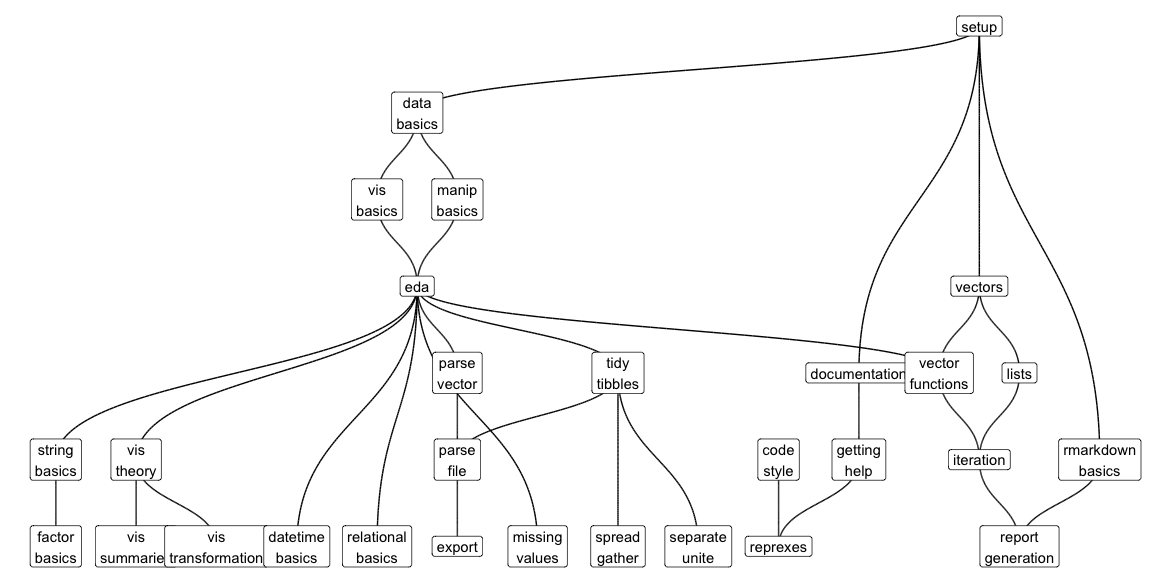
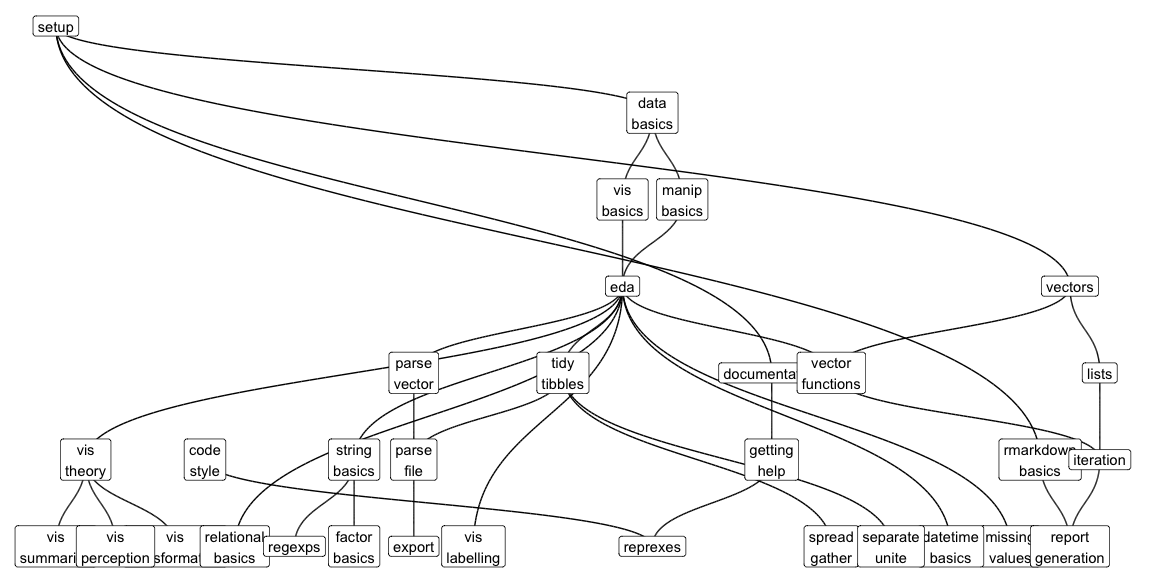
Draft out week 4

diff --git a/storyboard.md b/storyboard.md
@@ -11,7 +11,7 @@
 |cheatsheets-rmarkdown-reference |R Markdown Reference Guide                        |[rmarkdown-basics](https://dcl-2017-01.github.io/curriculum/rmarkdown-basics.html) |                                                                                       |                                                                                     |                                                                               |                                                                                                                               |       |       |       |       |       |
 |ggplot2-1                       |Introduction                                      |                                                                                   |                                                                                       |                                                                                     |                                                                               |                                                                                                                               |       |       |       |       |       |
 |ggplot2-2                       |Getting started with ggplot2                      |                                                                                   |                                                                                       |                                                                                     |                                                                               |                                                                                                                               |       |       |       |       |       |
-|ggplot2-3                       |Toolbox                                           |[vis-basics](https://dcl-2017-01.github.io/curriculum/vis-basics.html)             |[vis-summaries](https://dcl-2017-01.github.io/curriculum/vis-summaries.html)           |                                                                                     |                                                                               |                                                                                                                               |       |       |       |       |       |
+|ggplot2-3                       |Toolbox                                           |[vis-basics](https://dcl-2017-01.github.io/curriculum/vis-basics.html)             |[vis-summaries](https://dcl-2017-01.github.io/curriculum/vis-summaries.html)           |                                                                                     |[vis-labelling](https://dcl-2017-01.github.io/curriculum/vis-labelling.html)   |                                                                                                                               |       |       |       |       |       |
 |ggplot2-4                       |Mastering the grammar                             |                                                                                   |[vis-theory](https://dcl-2017-01.github.io/curriculum/vis-theory.html)                 |                                                                                     |                                                                               |                                                                                                                               |       |       |       |       |       |
 |ggplot2-5                       |Build a plot layer by layer                       |                                                                                   |[vis-theory](https://dcl-2017-01.github.io/curriculum/vis-theory.html)                 |                                                                                     |                                                                               |                                                                                                                               |       |       |       |       |       |
 |ggplot2-6                       |Scales, axes and legends                          |                                                                                   |[vis-transformation](https://dcl-2017-01.github.io/curriculum/vis-transformation.html) |[datetime-basics](https://dcl-2017-01.github.io/curriculum/datetime-basics.html)     |                                                                               |                                                                                                                               |       |       |       |       |       |
@@ -86,7 +86,7 @@
 |r4ds-11.2                       |Getting started                                   |                                                                                   |                                                                                       |                                                                                     |[parse-file](https://dcl-2017-01.github.io/curriculum/parse-file.html)         |                                                                                                                               |       |       |       |       |       |
 |r4ds-11.3                       |Parsing a vector                                  |                                                                                   |                                                                                       |                                                                                     |[parse-vector](https://dcl-2017-01.github.io/curriculum/parse-vector.html)     |                                                                                                                               |       |       |       |       |       |
 |r4ds-11.4                       |Parsing a file                                    |                                                                                   |                                                                                       |                                                                                     |[parse-file](https://dcl-2017-01.github.io/curriculum/parse-file.html)         |                                                                                                                               |       |       |       |       |       |
-|r4ds-11.5                       |Writing to a file                                 |                                                                                   |                                                                                       |                                                                                     |[export](https://dcl-2017-01.github.io/curriculum/export.html)                 |                                                                                                                               |       |       |       |       |       |
+|r4ds-11.5                       |Writing to a file                                 |                                                                                   |                                                                                       |                                                                                     |                                                                               |[export](https://dcl-2017-01.github.io/curriculum/export.html)                                                                 |       |       |       |       |       |
 |r4ds-11.6                       |Other types of data                               |                                                                                   |                                                                                       |                                                                                     |                                                                               |                                                                                                                               |       |       |       |       |       |
 |r4ds-12                         |Tidy data                                         |                                                                                   |                                                                                       |                                                                                     |                                                                               |                                                                                                                               |       |       |       |       |       |
 |r4ds-12.1                       |Introduction                                      |                                                                                   |                                                                                       |                                                                                     |                                                                               |                                                                                                                               |       |       |       |       |       |
@@ -107,8 +107,8 @@
 |r4ds-14                         |Strings                                           |                                                                                   |                                                                                       |                                                                                     |                                                                               |                                                                                                                               |       |       |       |       |       |
 |r4ds-14.1                       |Introduction                                      |                                                                                   |                                                                                       |[string-basics](https://dcl-2017-01.github.io/curriculum/string-basics.html)         |                                                                               |                                                                                                                               |       |       |       |       |       |
 |r4ds-14.2                       |String basics                                     |                                                                                   |                                                                                       |[string-basics](https://dcl-2017-01.github.io/curriculum/string-basics.html)         |                                                                               |                                                                                                                               |       |       |       |       |       |
-|r4ds-14.3                       |Matching patterns with regular expressions        |                                                                                   |                                                                                       |                                                                                     |                                                                               |                                                                                                                               |       |       |       |       |       |
-|r4ds-14.4                       |Tools                                             |                                                                                   |                                                                                       |                                                                                     |                                                                               |                                                                                                                               |       |       |       |       |       |
+|r4ds-14.3                       |Matching patterns with regular expressions        |                                                                                   |                                                                                       |                                                                                     |[regexps](https://dcl-2017-01.github.io/curriculum/regexps.html)               |                                                                                                                               |       |       |       |       |       |
+|r4ds-14.4                       |Tools                                             |                                                                                   |                                                                                       |                                                                                     |[regexps](https://dcl-2017-01.github.io/curriculum/regexps.html)               |                                                                                                                               |       |       |       |       |       |
 |r4ds-14.5                       |Other types of pattern                            |                                                                                   |                                                                                       |                                                                                     |                                                                               |                                                                                                                               |       |       |       |       |       |
 |r4ds-14.6                       |Other uses of regular expressions                 |                                                                                   |                                                                                       |                                                                                     |                                                                               |                                                                                                                               |       |       |       |       |       |
 |r4ds-14.7                       |stringi                                           |                                                                                   |                                                                                       |                                                                                     |                                                                               |                                                                                                                               |       |       |       |       |       |
@@ -189,8 +189,8 @@
 |r4ds-27.7                       |Learning more                                     |                                                                                   |                                                                                       |                                                                                     |                                                                               |                                                                                                                               |       |       |       |       |       |
 |r4ds-28                         |Graphics for communication                        |                                                                                   |                                                                                       |                                                                                     |                                                                               |                                                                                                                               |       |       |       |       |       |
 |r4ds-28.1                       |Introduction                                      |                                                                                   |                                                                                       |                                                                                     |                                                                               |                                                                                                                               |       |       |       |       |       |
-|r4ds-28.2                       |Label                                             |                                                                                   |                                                                                       |                                                                                     |                                                                               |                                                                                                                               |       |       |       |       |       |
-|r4ds-28.3                       |Annotations                                       |                                                                                   |                                                                                       |                                                                                     |                                                                               |                                                                                                                               |       |       |       |       |       |
+|r4ds-28.2                       |Label                                             |                                                                                   |                                                                                       |                                                                                     |[vis-labelling](https://dcl-2017-01.github.io/curriculum/vis-labelling.html)   |                                                                                                                               |       |       |       |       |       |
+|r4ds-28.3                       |Annotations                                       |                                                                                   |                                                                                       |                                                                                     |[vis-labelling](https://dcl-2017-01.github.io/curriculum/vis-labelling.html)   |                                                                                                                               |       |       |       |       |       |
 |r4ds-28.4                       |Scales                                            |                                                                                   |                                                                                       |                                                                                     |                                                                               |                                                                                                                               |       |       |       |       |       |
 |r4ds-28.5                       |Zooming                                           |                                                                                   |                                                                                       |                                                                                     |                                                                               |                                                                                                                               |       |       |       |       |       |
 |r4ds-28.6                       |Themes                                            |                                                                                   |                                                                                       |                                                                                     |                                                                               |                                                                                                                               |       |       |       |       |       |

diff --git a/docs/README.md b/docs/README.md
@@ -65,26 +65,31 @@ joins, which allow you to combine multiple datasets.
 1. [Essentials of relational data](relational-basics.md)
 1. [Spreading and gathering](spread-gather.md)
 
-
-## Care and feeding of tibbles
-
-So far you've used tidy data that we've provided you. This will __never__
-happen in real life, so this week you'll learn how to load data from a flat
-files on disk, and get your data into a tidy form. We'll also touch on some
-important theory about R's data structures.
-
-### Units
-
-1. [Parsing vectors](parse-vector.md)
-1. [Parsing files](parse-file.md)
-1. [Separate and unite](separate-unite.md)
-1. [Exporting data](export.md)
-
 ### Supplemental readings
 
 * [Tidying computational biology models with biobroom](supplements.html#biobroom)
 * [Non-tidy data](supplements.html#leek-non-tidy)
 * [Tidy Data](supplements.html#wickham-tidy-data)
+
+
+## Deepening your data skills
+
+So far you've used tidy data that we've provided you. This will __never__
+happen in real life, so this week you'll learn how to load data from a flat
+files on disk, and more skills for working with data stored as text. We'll also
+give you some skills for annotating and labelling your plots
+
+### Units
+
+1. [Parsing vectors](parse-vector.md)
+1. [Parsing files](parse-file.md)
+1. [Regular expressions](regexps.md)
+1. [Separate and unite](separate-unite.md)
+1. [Labelling your graphics](vis-labelling.md)
+1. [Perception](vis-perception.md)
+
+### Supplemental readings
+
 * [Secrets of a happy graphing life](supplements.html#happy-graphing)
 
 
@@ -103,6 +108,11 @@ automating your workflow.
 1. [Iteration](iteration.md)
 1. [Generating multiple reports](report-generation.md)
 1. [Reprexes](reprexes.md)
+1. [Exporting data](export.md)
+
+### Supplemental readings
+
+* [RStudio conference purrr tutorial](supplements.html#wickham-purrr)
 
 
 ## Strings and factors

diff --git a/docs/vis-labelling.md b/docs/vis-labelling.md
@@ -1,0 +1,25 @@
+---
+title: Labelling your graphics
+---
+
+<!-- Generated automatically from vis-labelling.yml. Do not edit by hand -->
+
+# Labelling your graphics
+
+Good label make visualisations much easier to understand for newcomers to
+the data. They are not so important while you're doing an analysis
+(as you're deeply familiar with the data), but are crucial when you go
+to present your findings as they allow the viewer to quickly situate
+themselves in the context of the data
+
+## Readings
+
+  * [Label](http://r4ds.had.co.nz/graphics-for-communication.html#label) [r4ds-28.2]
+
+  * [Annotations](http://r4ds.had.co.nz/graphics-for-communication.html#annotations) [r4ds-28.3]
+
+  * [Toolbox](http://link.springer.com.ezproxy.stanford.edu/chapter/10.1007/978-3-319-24277-4_3) [ggplot2-3].
+    Focus on §3.3 and §3.4
+
+
+

diff --git a/docs/vis-perception.md b/docs/vis-perception.md
@@ -1,0 +1,21 @@
+---
+title: Perception
+---
+
+<!-- Generated automatically from vis-perception.yml. Do not edit by hand -->
+
+# Perception
+
+To construct effective graphics, you must understand the basics of how
+the human perceptual system works. This 40 minute talk by John Rauser,
+a data scientist as Snapchat, will give you a high-level overview.
+As a bonus the majority of graphics were created with ggplot2.
+
+## Readings
+
+  * [How humans see data (video)](https://youtu.be/fSgEeI2Xpdc)
+
+  * [How humans see data (slides)](http://www.slideshare.net/JohnRauser/how-humans-see-data>)
+
+
+

diff --git a/docs/regexps.md b/docs/regexps.md
@@ -1,0 +1,20 @@
+---
+title: Regular expressions
+---
+
+<!-- Generated automatically from regexps.yml. Do not edit by hand -->
+
+# Regular expressions
+
+Regular expressions are a extremely concise language for describing patterns
+in strings. They are important to master because they unlock a number of
+new tools that allow you to bend strings to your will.
+
+## Readings
+
+  * [Matching patterns with regular expressions](http://r4ds.had.co.nz/strings.html#matching-patterns-with-regular-expressions) [r4ds-14.3]
+
+  * [Tools](http://r4ds.had.co.nz/strings.html#tools) [r4ds-14.4]
+
+
+
